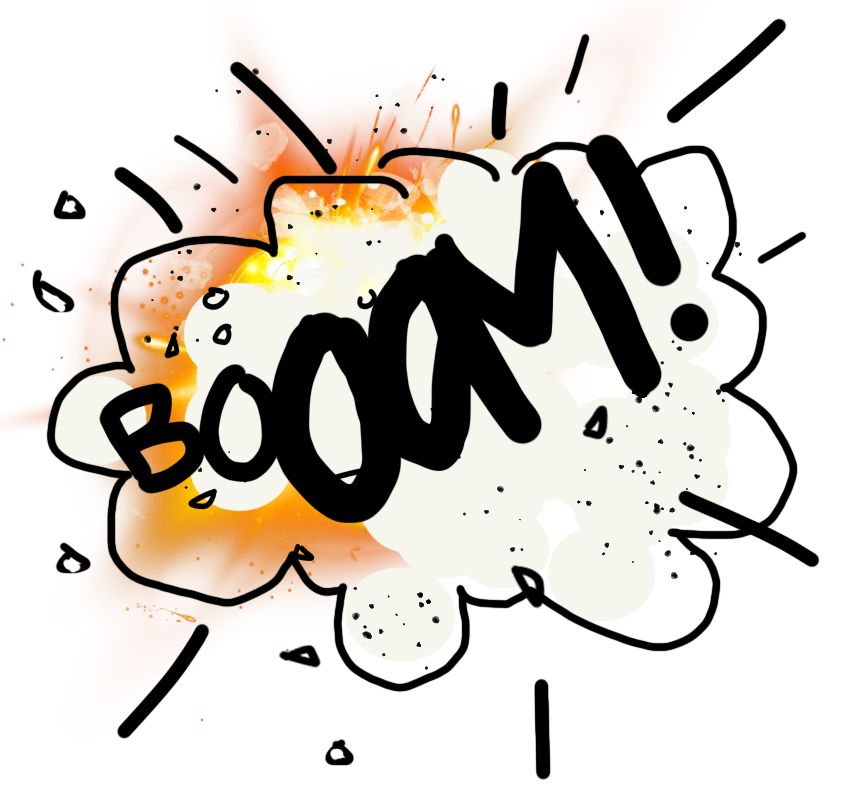
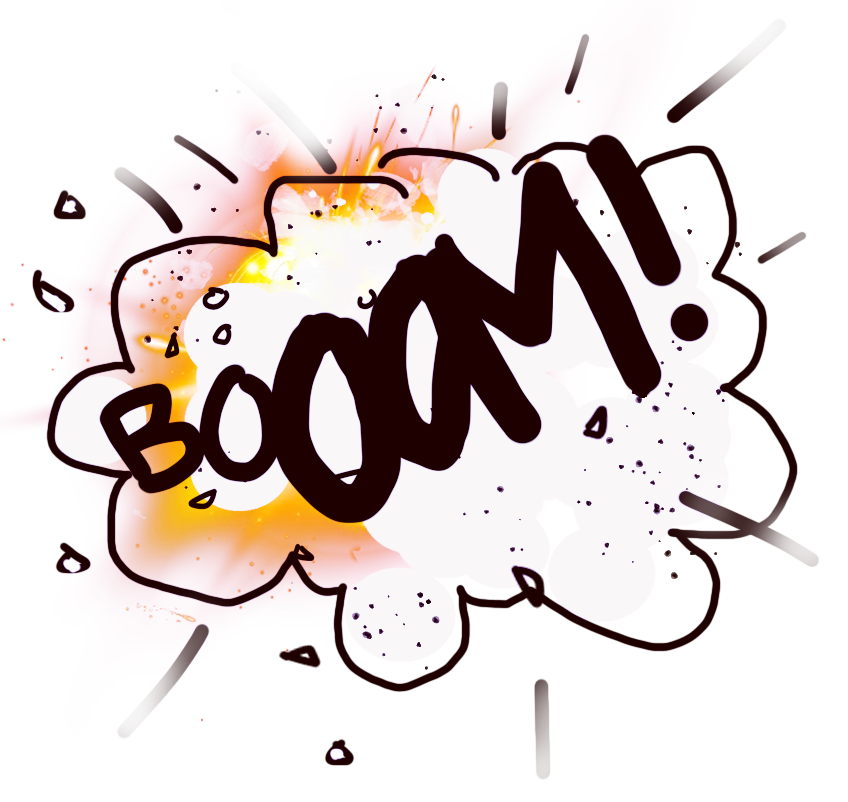
Done JS  - right side

diff --git a/css/style.css b/css/style.css
@@ -1,10 +1,11 @@
 .left{
     position: fixed;
-    background-color: cadetblue;
+    background-color: darkslateblue;
     width: 50%;
     height: 100%;
     top: 0;
     left: 0;
+    text-align: center;
 }
 
 
@@ -19,12 +20,44 @@
 }
 
 .ground {
-    background-color: darkgreen;
+    background: url('../img/ground.png') no-repeat center center;
     position: absolute;
     bottom: 0;
     left: 0;
     width: 100%;
     height: 45px;
+}
+
+
+.nervous {
+    position: absolute;
+    bottom: 400px;
+    left: 100px;
+    background: url('../img/nervous.png') no-repeat;
+    background-size: cover;
+    width: 400px;
+    height: 150px;
+    display: none;
+}
+
+.nervous.show{
+    display: block;
+}
+
+.cant-wait {
+    position: absolute;
+    bottom: 350px;
+    left: 180px;
+    background: url('../img/cant-wait.png') no-repeat;
+    background-size: cover;
+    width: 400px;
+    height: 150px;
+    display: none;
+
+}
+
+.cant-wait.show{
+    display: block;
 }
 
 .rocket {
@@ -39,7 +72,8 @@
     transition: bottom 10000ms;
 
 }
-/* Rocket bg image */
+/* ::::::Rocket bg image:::::::::: */
+
 body.body-state2 .rocket{
     background-image: url('../img/rocket-state2.gif');
 }
@@ -51,7 +85,11 @@ body.body-state4 .rocket{
 }
 
 body.body-state5 .rocket{
-
+    background-image: url('../img/boom.png');
+    width: 421px;
+    height: 401px;
+    background-size: cover;
+    margin-left: -204px;
 }
 
 

diff --git a/JS/script.js b/JS/script.js
@@ -13,8 +13,22 @@ var changeState = function (state) {
             countdownNumber = countdownNumber -1;
             document.getElementById('countdown').innerHTML = countdownNumber;
             
+            if (countdownNumber > 4 && countdownNumber <= 7) {
+                //be nervous
+                document.getElementById('nervous').className = 'nervous show';
+            } else {
+                document.getElementById('nervous').className = 'nervous';
+
+            }
+
+            if (countdownNumber > 1 && countdownNumber <= 4) {
+                //can't wait
+                document.getElementById('cant-wait').className = 'cant-wait show';
+            } else {
+                document.getElementById('cant-wait').className = 'cant-wait';
+            }
+
             if (countdownNumber <= 0) {
-                
                 changeState(3);
             };
         }, 500);
@@ -24,11 +38,11 @@ var changeState = function (state) {
         {
             var randomNumber = Math.round(Math.random()*10);
 //if succcess
-            if (randomNumber > 4) {
+            if (randomNumber > 5) {
                 changeState(4);
             } else {
                 changeState(5);
             }
-    }, 2000);
+    }, 2500);
 };
 }

diff --git a/index.html b/index.html
@@ -12,7 +12,7 @@
 <!-- Left side of screen -->
 <div class="left">
     <div class="state1">
-        <h1>JS Rocket Launch</h1>
+        <h1>Kaja's Rocket Launch to Mars</h1>
         <a href="#" class="button" 
         onclick="changeState(2);">Launch!</a>
     </div>
@@ -26,12 +26,12 @@
         
     </div>
     <div class="state4">
-        <h1>Well Done, Astronaut Lauritzen!</h1>
+        <h1>Well Done, Astronaut Lauritzen!<br>Kaja is on Mars..</h1>
         <a href="#" class="button" 
         onclick="changeState(1);">Do It Again!</a>
     </div>
     <div class="state5">
-        <h1>Oh Nooo! U blasted!!</h1>
+        <h1>Oh Nooo! Blasted to Pieces!!</h1>
         <a href="#" class="button" 
         onclick="changeState(1);">Try Again!</a>
     </div>
@@ -42,6 +42,8 @@
 <div class="right">
     <div class="ground"></div>
     <div class="rocket"></div>
+    <div class="nervous" id="nervous"></div>
+    <div class="cant-wait" id="cant-wait"></div>
 </div>
     
 </body>
